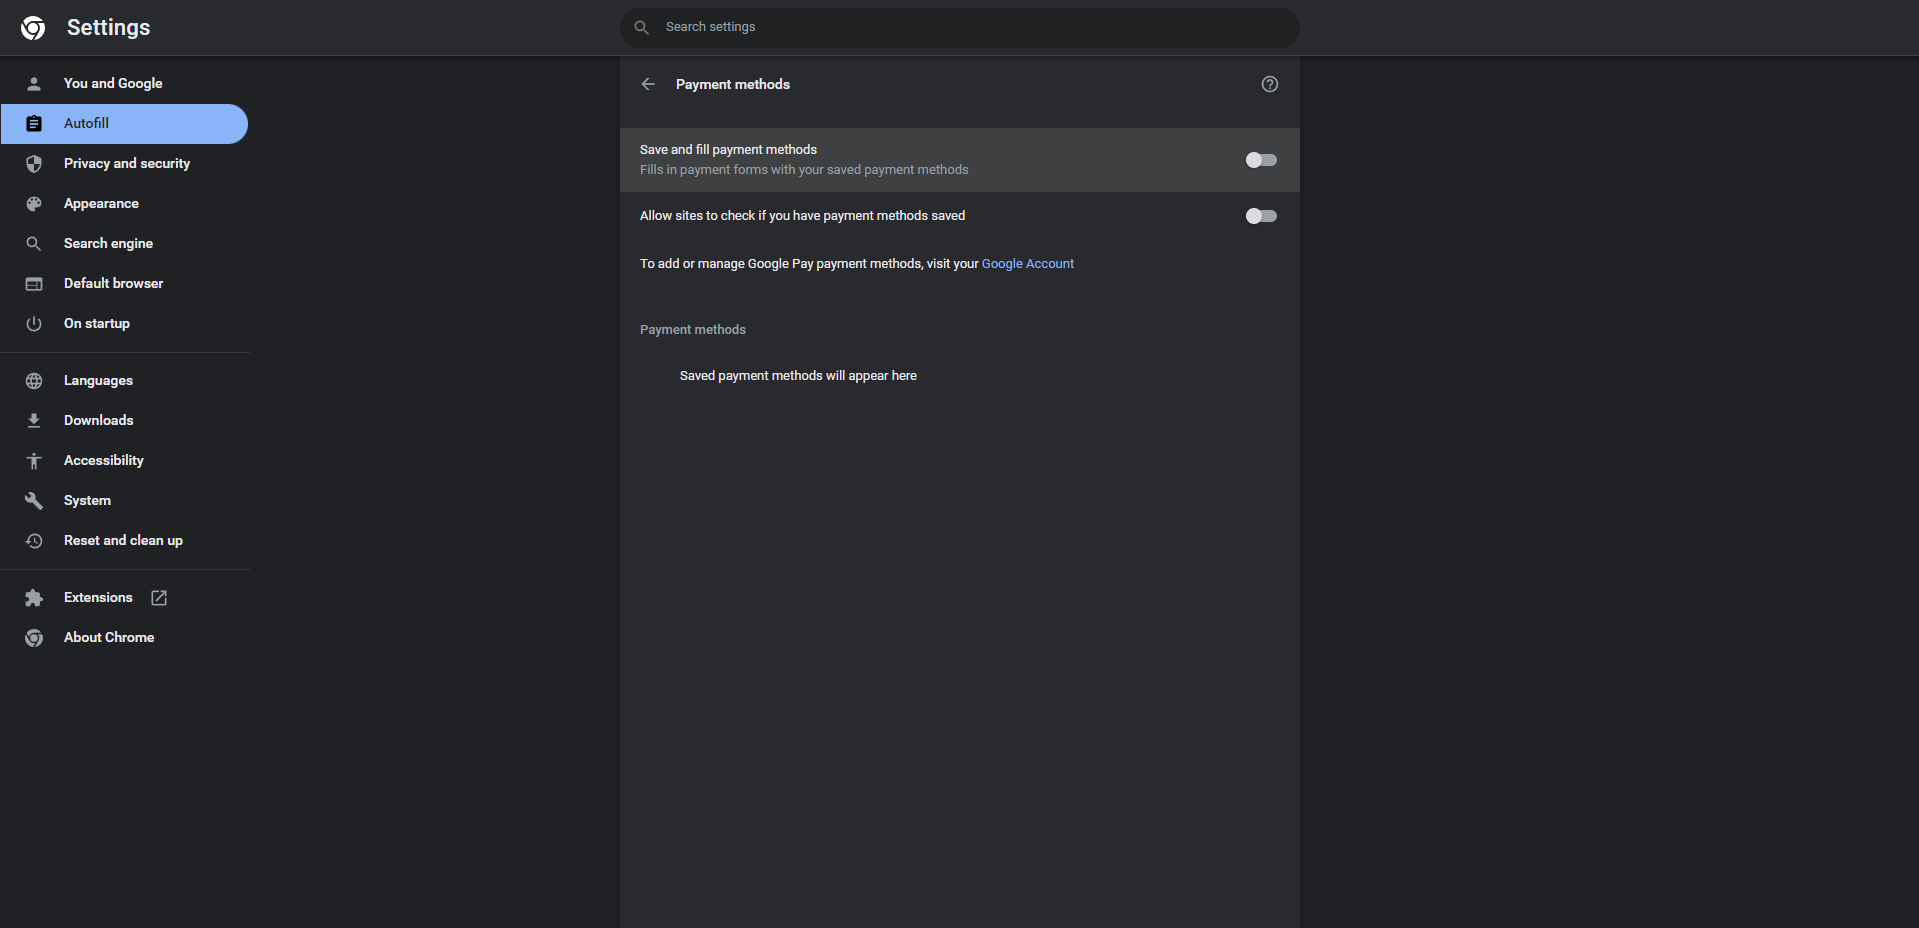
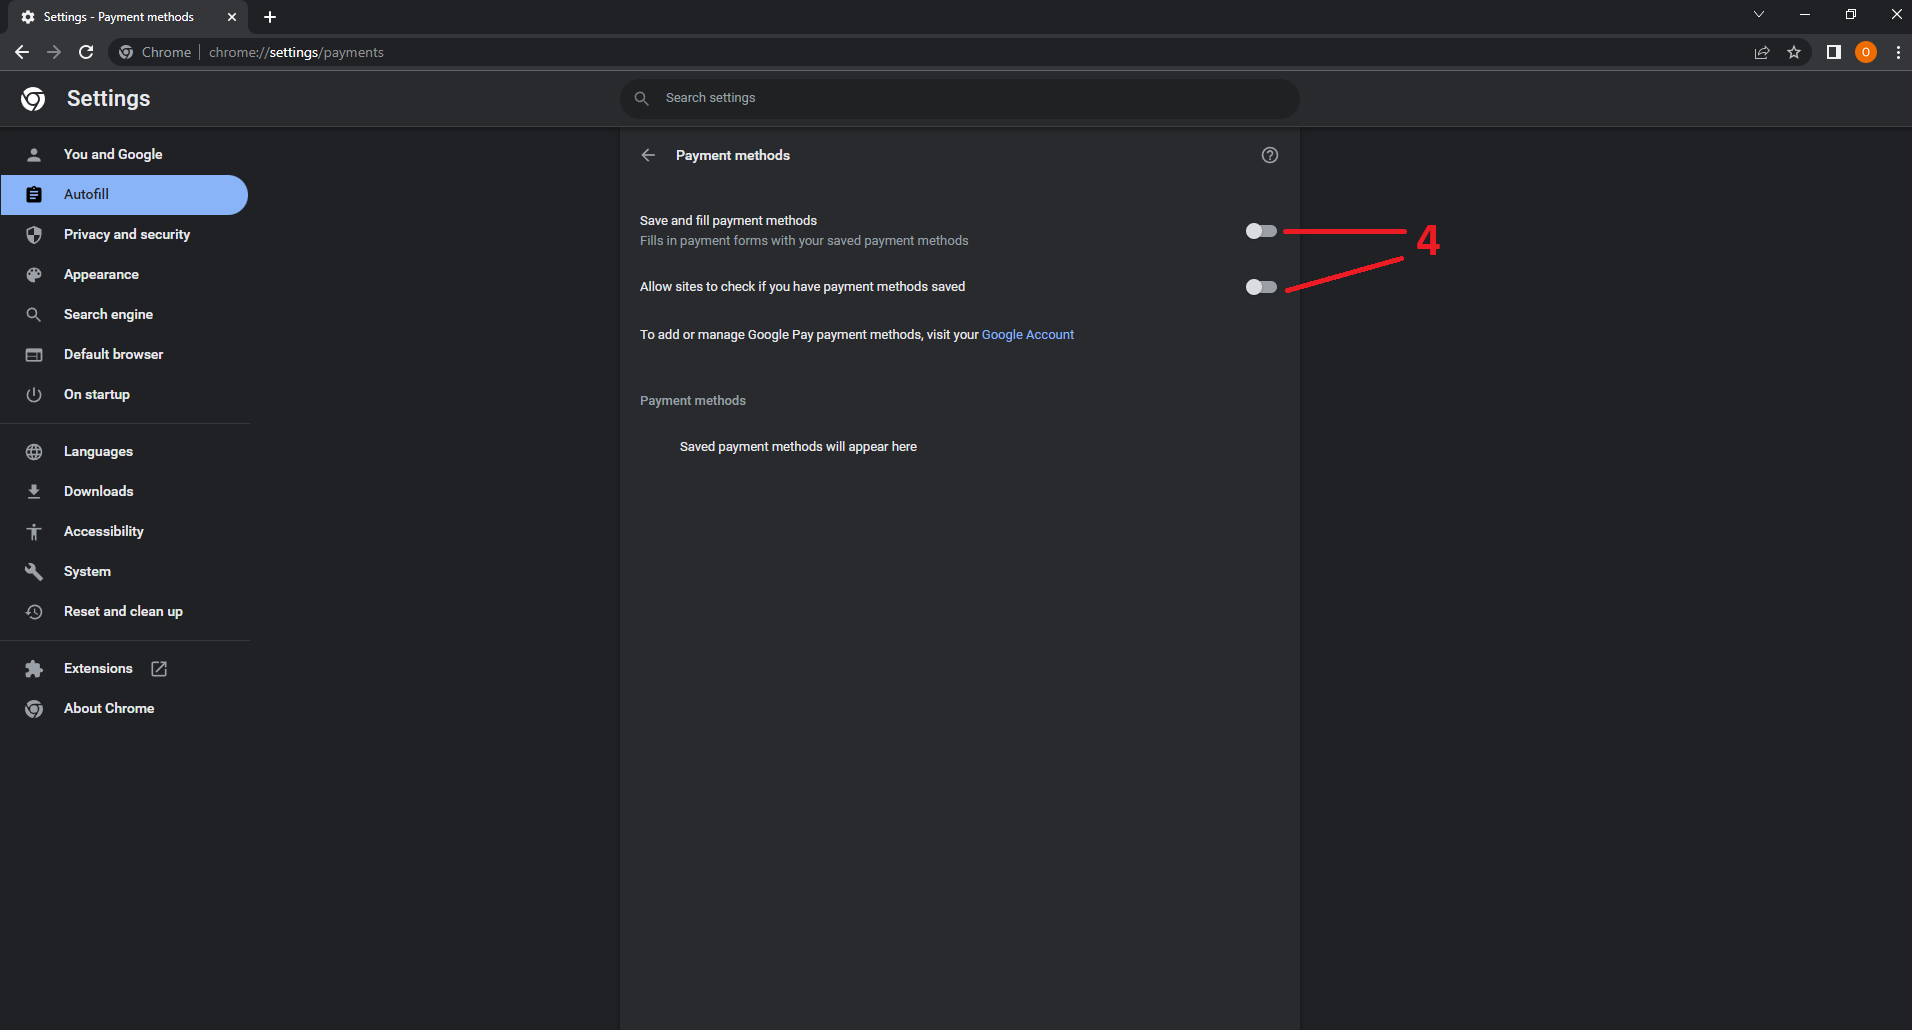
bitwarden secure done

diff --git a/bitwarden.html b/bitwarden.html
@@ -145,6 +145,8 @@
                <li>
                   <a href="#incrypting">إضافة بت فاردن إلى المتصفح وطريقة الاستخدام</a>
                </li>
+               <span>سوف نستخدم متصفح جوجل كروم في هذا الدليل، حيث يعتبر المتصفح الأكثر استخداماَ في الوقت
+                  الحالي.</span>
             </ul>
          </div>
          <div class="installing" id="installing">
@@ -195,46 +197,70 @@
             </ul>
          </div>
          <div class="creating" id="creating">
-            <h3>2- حذف ملف عن طريق البرنامج
+            <h3>2- إلغاء حفظ المتصفح للبيانات الشخصية
             </h3>
             <ul class="main-list">
-               بعد حفظ الاعدادات،
-               نقوم بإغلاق البرنامج
+               بعد إنشاء الحساب كما هو موضح في الخطوات السابقة، نفتح متصفح جوجل كروم
                <li>
-                  الآن، لحذف أي ملف أو مجلد بطريقة آمنة، نضغط بالزر اليمين على أي ملف أو مجلد <br>
-                  <span>نضغط على الخيار Eraser من القائمة</span>
+                  في أعلى يمين الشاشة، نضغط على صورة الحرف بجانب النقاط الثلاثة، تحت علامة X<br />
+                  <span>يمكن أن يكون الحرف مختلف، لا مشكلة في ذلك</span>
                   <ul class="child-list">
-                     عند الضغط على الخيار Eraser يظهر خياران:
-                     <li>الخيار: Erase | يقوم بعملية الحذف فوراً</li>
-                     <li>الخيار: Erase on Restart | يقوم بعملية الحذف عند إعادة تشغيل جهاز الكمبيوتر</li>
+                     عند الضغط على صورة الحرف تظهر القائمة التالية أسفل الصورة مباشرةَ
+                     <li>نضغط على صورة المفتاح الصغيرة الموضحة كما في الصورة</li>
                   </ul>
-                  <img src="./assets/eraserImgs/img8.jpg" alt="eight"> <br>
-                  <span>يعتمد الوقت الذي يحتاجه البرنامج لحذف الملف أو المجلد، على حجم الملف أو المجلد وعلى عدد مرات
-                     الكتابة فوق الملف المحذوف،
-                     التي اخترناها في الاعدادات</span>
+                  <img src="./assets/bitwardenImgs/secure1.png" alt="five"> <br />
+               </li>
+               <li>
+                  نتأكد من إلغاء أو إغلاق الخيارين المشار إليهما بحيث يكونان كما في الصورة <br />
+                  <span>بإلغاء هذين الخيارين لن يقدم لك المتصفح خيار حفظ بيانات تسجيل الدخول مرة أخرى، كما أنه لن يملأ
+                     حقول بيانات تسجيل الدخول بشكل تلقائي مرة أخرى</span>
+                  <img src="./assets/bitwardenImgs/secure2.png" alt="six">
+               </li>
+               <li>
+                  في نفس الصفحة، نضغط على صورة الحرف الصغيرة في أعلى يمين الشاشة كما في الخطوة الأولى، ثم نضغط على
+                  الدائرة في المنتصف كما هو موضح، <span>وتعني الدخول إلى إعدادات بطاقات الدفع الالكتروني</span>
+                  <img src="./assets/bitwardenImgs/secure3.png" alt="seven">
+               </li>
+               <li>
+                  نتأكد من إلغاء أو إغلاق الخيارين المشار إليهما بحيث يكونان كما في الصورة التالية<br />
+                  <span>بإلغاء هذين الخيارين لن يقوم المتصفح بحفظ بيانات البطاقات البنكية والدفع الالكتروني، كما لن يقوم
+                     بملئ هذه الحقول بشكل تلقائي مرة أخرى</span>
+                  <img src="./assets/bitwardenImgs/secure4.png" alt="eight">
+               </li>
+               <li>
+                  في نفس الصفحة، نضغط على صورة الحرف الصغيرة في أعلى يمين الشاشة كما في الخطوة الأولى، ثم نضغط على
+                  الدائرة الأخير كما في الصورة التالية <span>وتعني الدخول إلى إعدادات الموقع والعناوين الشخصية</span>
+                  <br />
+                  <img src="./assets/bitwardenImgs/secure5.png" alt="nine">
+               </li>
+               <li>
+                  تظهر الصفحة التالية، نتأكد من إلغاء أو إغلاق الخيار المشار إليه بحيث يكون كما في الصورة <br />
+                  <span>بإلغاء هذا الخيار لن يقوم المتصفح بحفظ عنوانك أو موقعك الحالي ولن يقوم بملئ هذه البيانات في
+                     الحقول التي تطلبها مرة أخرى</span> <br />
+                  <img src="./assets/bitwardenImgs/secure6.png" alt="ten">
                </li>
             </ul>
          </div>
          <div class="incrypting" id="incrypting">
             <h3>3- جدولة بعض الملفات للحذف</h3>
             <ul class="main-list">
-               يمكن إضافة (جدولة) حذف عدد من الملفات والمجلدات وخيارات اُخرى <br>
+               يمكن إضافة (جدولة) حذف عدد من الملفات والمجلدات وخيارات اُخرى <br />
                <li>
                   من الصفحة الرئيسية للبرنامج،
-                  نضغط باليمين داخل المساحة البيضاء، ثم نضغط على الخيار "New Task" <br>
+                  نضغط باليمين داخل المساحة البيضاء، ثم نضغط على الخيار "New Task" <br />
                   <img src="./assets/eraserImgs/img9.jpg" alt="nine">
                </li>
                <li>
                   تظهر الصفحة التالية:
-                  نضغط على الخيار" Add Data" <br>
+                  نضغط على الخيار" Add Data" <br />
                   <img src="./assets/eraserImgs/img10.jpg" alt="ten">
                </li>
-               تظهر الصفحة التالية "Select Data to Erase" <br>
+               تظهر الصفحة التالية "Select Data to Erase" <br />
                <img src="./assets/eraserImgs/img11.jpg" alt="eleven">
-               <li>الخيار File: لتحديد ملف <br>
+               <li>الخيار File: لتحديد ملف <br />
                   <span>يتم تحديد الملف من الخيار Browse</span>
                </li>
-               <li>الخيار Files in folder: تحديد عدة ملفات داخل المجلد <br>
+               <li>الخيار Files in folder: تحديد عدة ملفات داخل المجلد <br />
                   <span>يتم تحديد الملفات من الخيار Browse</span>
                </li>
                <li>الخيار Unused disk space: لحذف (تنظيف) المساحة الفارغة في أحد الأقراص الصلبة أو وحدة التخزين (فلاش
